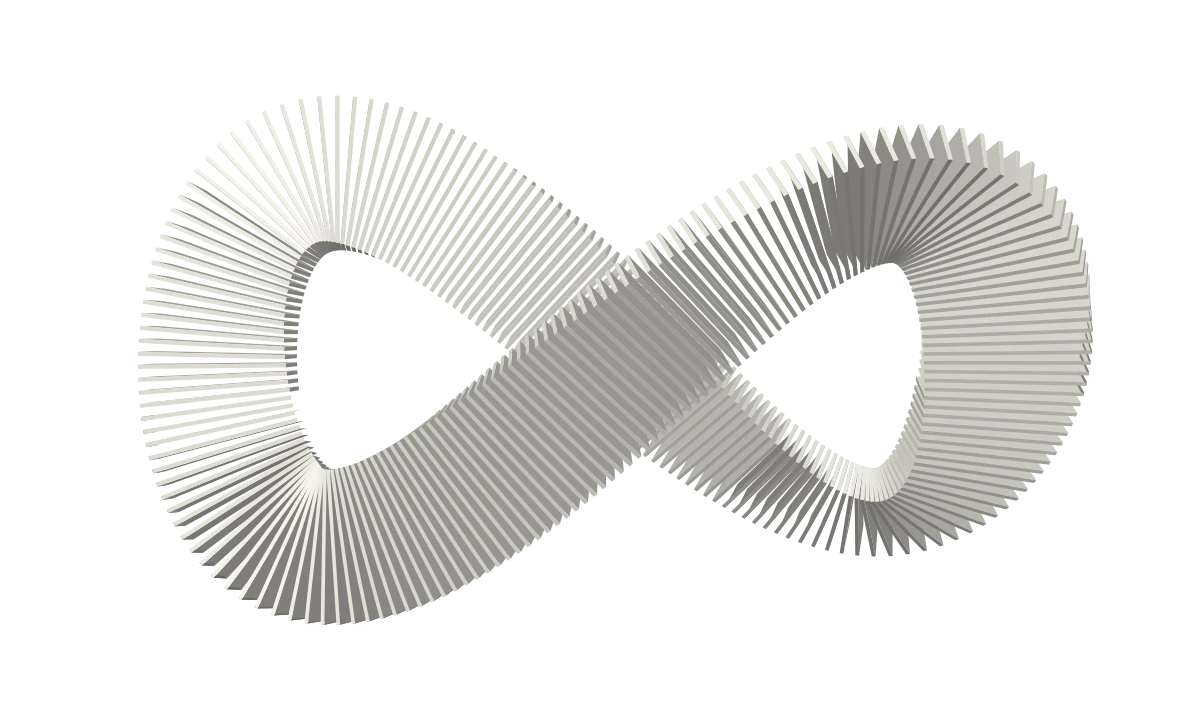
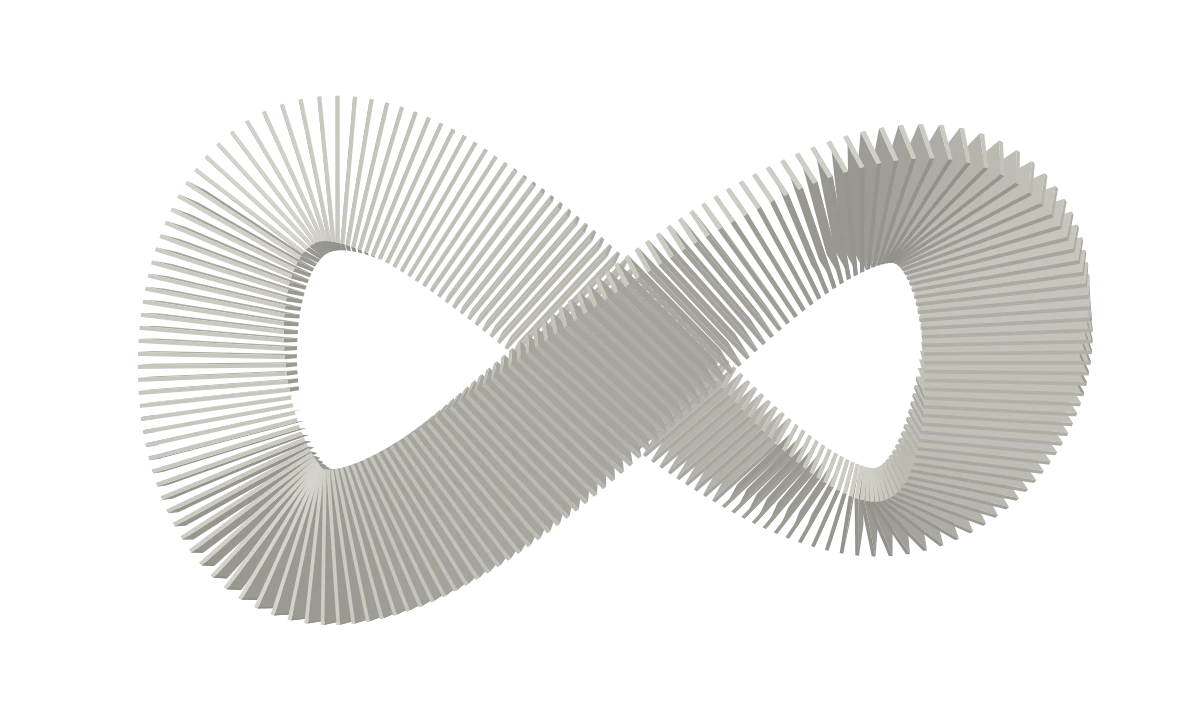
百褶环：撤回缩小，改「明暗对比」—— 浓淡与对比是两个旋钮
上一轮我把环从 1400px 缩到 620px，**这一轮整轮撤回**。站主的原话：
「为什么这么小，你把他放满屏可以吗」「满屏不要动，只改变他的颜色，
图二那个没有那么大的明暗对比」。

★ 记一条教训：**我把一个站主没在意的维度（「宽屏上薄片显得宽」）推成了决定**，
还配了四张真页面让他选 —— 选是让他选了，可我给的三个选项里**没有他真正要的那个**
（满屏 + 变平）。**选项本身没覆盖诉求，比选项做得糙更糟。**

## 两个旋钮的分工

    想改「看起来」        改哪个              效果
    整体有多少墨          --pleat-opacity     整体压暗/提亮
    最暗处离最亮处拉多开  --pleat-contrast     拉宽/收窄明暗对比

站主要的是第二件，而前三轮（0.3 → 1 → 0.75 → 0.89）**全在调第一件**。

实测（满屏 · α=0.89 · WCAG 相对亮度 · canvas 那一侧）：

    对比度   墨区均低   最深低   最深像素          正文×比   明暗对比比
    1.00     119 级   196 级   rgb(120,119,115)   3.89:1     1.65   ← 改之前
    0.50     120 级   162 级   rgb(154,153,147)   6.09:1     1.35   ← 定稿

**墨量 119→120（没变），暗部 196→162（降 17%），正文 3.89→6.09:1。**

## 一个我先写错的公式

第一版是 `shade' = 1 + (shade−1)·k`（朝白色压缩）。那**只抬暗部、亮部仍顶在纯白**
⇒ 不是「降对比」而是「整体变淡」：实测 k=0.5 时墨区均低从 110 级掉到 **69 级**，
墨量被顺带削掉三成 —— 而站主要的是「只改变颜色」，正好是反的。

改成朝中点：`shade' = 0.745 + (shade−0.745)·k`，`0.745 = (0.43+1.06)/2`。
中点不动 ⇒ **墨量几乎不变**。

⚠ 一条几何上的硬约束：亮端固定在纸白时，暗端一抬浅、墨量必然少。
想同时「墨量不丢」和「对比变小」，只能靠中点压缩 —— 这是几何，不是旋钮没调好。

## 门闩

上界必须**测出来**：第一版只写 `contrast <= 1`，变异「按回原样」**完全不咬**，
而浓淡那几条断言在这条变异下**照旧通过** —— 两个病的门闩不能互相顶替，这正好是证据。
补的是与「浓淡下界」同原理、方向相反的一条：**渲染深度上界 ≤ 175 级**
（实测 k=1 是 199、k=0.5 是 166）。变异 **9/9 + 合法写法未误判 1/1**。

## ★★ 变异脚本的还原表漏了一个文件 ⇒ 报假绿，又把变异留在仓里

实测两次，症状完全一样：

1. 第一次：脚本挂在「锚点核对」那步 `process.exit(1)`，而它读到的「原件」**已经是上一条
   变异改坏的了** ⇒ `src/scripts/pleated-renderer.ts` 留在仓里。
2. 第二次（修好锚点后）：变异 10 改的是同一个文件，而**手写的还原表里没有它**
   ⇒ 每跑一次留一条；末尾那句「逐字节还原：是」查的是别的文件 ⇒ **报了假绿**，
[…]

diff --git a/tests/about-ref-plate.test.ts b/tests/about-ref-plate.test.ts
@@ -127,34 +127,75 @@ describe('关于页 · 纸白与交互百褶环', () => {
     ).toBeGreaterThanOrEqual(120);
   });
 
-  it('★★★ 薄片在**屏上**必须够细（这条才是防"读起来像锯齿"的那条）', () => {
-    /* ★★★ 为什么浓淡的门闩拦不住这个问题：
-       2026-10-16 这一轮，浓淡调了三个来回（0.3 → 1 → 0.75 → 0.89），
-       而站主三次都说"还是没有预览那个感觉"。实测把三个"看着像"的原因排掉之后，
-       真因是**显示尺寸**：环在宽屏上是 1400px、在站主给的预览里只有 360px ——
-       **同一个旋钮放大 3.9 倍，薄的片就变成宽的楔子**。
-       而浓淡与色度两边本来就几乎相同：
-         墨区均低 119 级 vs 参考 121 级（差 2%）
-         色度     6.8    vs 参考  6.7
-       ⇒ 这条断言守的是「每道褶在屏上不超过几像素」，**不是**浓淡。
-       ⚠★ 我自己前三轮的判据都栽在同一件事上：**每次比都把两张图归一到同一宽度**，
-         归一恰好把尺寸这个变量消掉 ⇒ 于是每次都量出"一样"，
-         而每次那个"一样"都不是问题所在。判据设计错了，不是源错了。 */
-    const core = readFileSync('src/scripts/pleated-core.ts', 'utf8');
-    const count = Number(core.match(/createPleats\(count\s*=\s*(\d+)\)/)?.[1] ?? NaN);
-    expect(Number.isFinite(count), '读不到 createPleats 的默认片数').toBe(true);
-    /* 桌面上限（px）· 取 min(94vw, Npx, 150vh) 里那个 N */
-    const cap = Number(component.match(/width:\s*min\(\s*94vw,\s*(\d+)px/)?.[1] ?? NaN);
-    expect(Number.isFinite(cap), '组件里读不到桌面档的 px 上限').toBe(true);
-    /* 实测：1400px / 216 片 ⇒ 每片约 6~10px（读作粗锯齿）；620px ⇒ 约 2~4px（细密扇面）。
-       4.5px 是"还读作细密"的上界，留一点余量但离 1400px 那档足够远。 */
-    const perPleat = cap / count;
+  it('★★★ 明暗对比（--pleat-contrast）与浓淡（--pleat-opacity）是**两个**旋钮，不许互相顶替', async () => {
+    /* ★ 这一轮真正的病灶（2026-10-16）：
+       站主要的是「图二那个没有那么大的明暗对比」—— 要的是**变平**，不是变淡。
+       而我前面三轮把浓淡（--pleat-opacity）调了 0.3 → 1 → 0.75 → 0.89 全是在调错的那个。
+       ★★ 我还犯过一次更蠢的错：把「宽屏上薄片显得宽」当成病因、把上限从 1400px
+          改到 620px，站主看了直说「为什么这么小，你把他放满屏可以吗」。
+          ⇒ 尺寸那轮**已撤回**，这里不再有尺寸门闩（spec §6.86.6 记着为什么）。
+       ⇒ 分工写死：opacity 管「整体有多少墨」，contrast 管「最暗处与最亮处拉多开」。 */
+    const opacity = pleat('pleat-opacity');
+    const contrast = pleat('pleat-contrast');
+    expect(Number.isFinite(contrast), 'tokens.css 里读不到 --pleat-contrast').toBe(true);
+    expect(contrast, `--pleat-contrast=${contrast} 不是 0..1 之间的数`).toBeGreaterThanOrEqual(0);
+    expect(contrast, `--pleat-contrast=${contrast} 不是 0..1 之间的数`).toBeLessThanOrEqual(1);
+    /* 下界不是审美，是**还能不能看出是立体薄片**：压到 0.25 以下明暗全塌，
+       只剩一片均匀的灰，装置感就没了（spec §6.86.6 实测 0.35 仍可读、0.2 已塌）。 */
+    expect(contrast, `--pleat-contrast=${contrast} 压得太狠 ⇒ 明暗全塌，只剩一片均匀的灰`)
+      .toBeGreaterThanOrEqual(0.25);
+    /* ★ 两侧必须是**同一条公式**：改了 canvas 的着色器却没改静态后备图，
+       无 WebGL 的机器与线上会长得不一样（AGENTS §5：结构上不许分裂）。 */
+    const renderer = readFileSync('src/scripts/pleated-renderer.ts', 'utf8');
+    const gen = readFileSync('scripts/gen-pleated-fallback.mjs', 'utf8');
+    expect(renderer, 'canvas 侧没有把 uContrast 接到着色上').toMatch(
+      /shade\s*=\s*0\.745\s*\+\s*\(shade\s*-\s*0\.745\)\s*\*\s*uContrast;/,
+    );
+    expect(gen, '后备图侧没有同一条压缩公式').toMatch(
+      /const shade = 0\.745 \+ \(raw - 0\.745\) \* contrast;/,
+    );
+    expect(gen, '后备图侧高光没有跟着同比例缩放').toMatch(
+      /const specular = 0\.08 \* contrast \* dot\(normal, half\) \*\* 36;/,
+    );
+    expect(gen, '后备图侧没有从 token 读 --pleat-contrast').toMatch(/--pleat-contrast/);
+    const script = readFileSync('src/scripts/pleated-infinity.ts', 'utf8');
+    expect(script, 'canvas 侧没读 --pleat-contrast').toMatch(
+      /contrast:\s*parseFloat\(styles\.getPropertyValue\('--pleat-contrast'\)\)/,
+    );
+
+    /* ★★ 上界必须是**测出来的**，不能只写 `contrast <= 1` —— 那样按回原样照样全绿。
+       判据与"浓淡下限"同一个原理，只是方向相反：
+         站主 2026-10-16 嫌明暗对比太大（实测 k=1 时最深 196 级、正文 3.89:1）
+         k=0.5 时最深 166 级、正文 5.86:1（兜底图侧）
+       ⇒ 上界取 175 级：留一档微调余地，但仍咬住"按回原样"。
+       ⚠ 这条只防**变回太跳**，不防**改成别的值** —— 定档是站主的决定，
+         换档时该改的是这里和 token 注释里的实测表，不是把断言删掉。 */
+    const sharp = (await import('sharp')).default;
+    const { data, info } = await sharp('src/assets/about/plates/pleated-infinity.webp')
+      .ensureAlpha().raw().toBuffer({ resolveWithObject: true });
+    const chan = (r: number, g: number, b: number) => {
+      const f = (v: number) => { v /= 255; return v <= 0.04045 ? v / 12.92 : ((v + 0.055) / 1.055) ** 2.4; };
+      return 0.2126 * f(r) + 0.7152 * f(g) + 0.0722 * f(b);
+    };
+    const paperLum = chan(250, 250, 247);
+    let deepest = 0;
+    for (let i = 0; i < info.width * info.height; i++) {
+      const sa = (data[i * info.channels + 3] / 255) * opacity;
+      if (sa <= 0.02) continue;
+      const [r, g, b] = [0, 1, 2].map((k) =>
+        Math.round(data[i * info.channels + k] * sa + [250, 250, 247][k] * (1 - sa)));
+      const drop = paperLum - chan(r, g, b);
+      if (drop > deepest) deepest = drop;
+    }
     expect(
-      perPleat,
-      `桌面上限 ${cap}px ÷ ${count} 片 = 每道褶 ${perPleat.toFixed(1)}px 宽`
-      + ' ⇒ 读起来是粗的锯齿扇，不是站主要的那张预览里的细密扇面'
-      + '（浓淡调多少次都没用：实测浓淡两边只差 2%，差的是尺寸）',
-    ).toBeLessThanOrEqual(4.5);
+      deepest * 255,
+      `--pleat-contrast=${contrast} 下最深的一道褶比纸白低 ${(deepest * 255).toFixed(0)} 级`
+      + ' ⇒ 明暗对比又拉满了，回到站主报的那个"对比太大"的状态'
+      + '（实测 k=1 是 199 级；要更平把 token 往 0.3 调，不是改这条断言）',
+    ).toBeLessThanOrEqual(175);
+
+    /* 浓淡那条门闩仍在（它守的是"别退回看不见"）—— 两条并存，互不替代。 */
+    expect(Number.isFinite(opacity), '读不到 --pleat-opacity').toBe(true);
   });
 
   it('★★ canvas 与静态后备图共用同一个浓淡来源（不许各调各的）', () => {

diff --git a/src/scripts/pleated-renderer.ts b/src/scripts/pleated-renderer.ts
@@ -1,6 +1,6 @@
 import type { Pleats } from './pleated-core';
 
-export type PleatPalette = { base: number[]; wave: number[]; opacity: number; waveOpacity: number };
+export type PleatPalette = { base: number[]; wave: number[]; opacity: number; waveOpacity: number; contrast: number };
 
 /** 原生 WebGL 绘制；失败时由组件保留同几何的静态后备图。 */
 export function createPleatedRenderer(canvas: HTMLCanvasElement, palette: PleatPalette) {
@@ -23,7 +23,7 @@ export function createPleatedRenderer(canvas: HTMLCanvasElement, palette: PleatP
   const fragmentSource = `
     precision mediump float;
     uniform vec3 uBase,uWave;
-    uniform float uOpacity,uWaveOpacity;
+    uniform float uOpacity,uWaveOpacity,uContrast;
     varying vec3 vNormal;
     varying float vWave;
     void main(){
@@ -34,7 +34,16 @@ export function createPleatedRenderer(canvas: HTMLCanvasElement, palette: PleatP
       float fill=max(dot(n,normalize(vec3(0.6,-0.1,0.2))),0.);
       float highlight=pow(max(dot(n,normalize(light+vec3(0.,0.,1.))),0.),36.);
       float shade=0.43+0.53*diffuse+0.10*fill;
-      vec3 color=mix(uBase,uWave,vWave)*shade+vec3(0.08)*highlight;
+      /* ★★ 明暗对比。站主 2026-10-16：「图二那个没有那么大的明暗对比」。
+         ⚠⚠ 压缩必须**朝区间中点**，不能朝白色：
+            朝白色只抬暗部、亮部仍顶在纯白 ⇒ 那不是"降对比"，那是"整体变淡"
+            （实测 k=0.5 时墨区均低从 110 级掉到 69 级 —— 墨量被顺带削了三成）。
+            朝中点则是亮部一起下来 ⇒ 明暗跨度真的收窄。
+            MID = (0.43 + 1.06)/2 = 0.745，是现有着色区间的算术中点（结构性常量，
+            不是设计旋钮；要改着色区间时才动它）。
+            k=1 原样，k=0 全平。⚠ 只改**明暗跨度**，整体浓淡由 --pleat-opacity 决定。 */
+      shade=0.745+(shade-0.745)*uContrast;
+      vec3 color=mix(uBase,uWave,vWave)*shade+vec3(0.08*uContrast)*highlight;
       gl_FragColor=vec4(color,mix(uOpacity,uWaveOpacity,vWave));
     }`;
   const shaders: WebGLShader[] = [];
@@ -63,6 +72,7 @@ export function createPleatedRenderer(canvas: HTMLCanvasElement, palette: PleatP
     gl.uniform3fv(gl.getUniformLocation(program, 'uWave'), palette.wave);
     gl.uniform1f(gl.getUniformLocation(program, 'uOpacity'), palette.opacity);
     gl.uniform1f(gl.getUniformLocation(program, 'uWaveOpacity'), palette.waveOpacity);
+    gl.uniform1f(gl.getUniformLocation(program, 'uContrast'), palette.contrast);
     const aspect = gl.getUniformLocation(program, 'uAspect');
     gl.enable(gl.DEPTH_TEST); gl.clearColor(0, 0, 0, 0);
     return {

diff --git a/src/styles/tokens.css b/src/styles/tokens.css
@@ -58,6 +58,34 @@
   --pleat-wave: #a4cfad;
   --pleat-opacity: 0.89;
   --pleat-wave-opacity: 0.89;
+  /* ★★★ 明暗对比（不是浓淡！）：把薄片的着色**朝着色区间的中点**压缩。
+     站主 2026-10-16：「图二那个没有那么大的明暗对比」—— 要的是**变平**，不是变淡。
+
+        shade' = 0.745 + (shade − 0.745) · k，高光同比例。1 = 原样，0 = 全平。
+        MID 0.745 = (0.43 + 1.06)/2，是现有着色区间的算术中点（结构性常量）。
+
+        ⚠⚠ 为什么必须朝**中点**而不是朝白色（这一版我先写错了）：
+           朝白色只抬暗部、亮部仍顶在纯白 ⇒ 那不是"降对比"而是"整体变淡"
+           —— 实测 k=0.5 时墨区均低从 110 级掉到 **69 级**，墨量被顺带削掉三成。
+           朝中点则亮部一起下来 ⇒ 跨度真收窄，而**中点不动 ⇒ 墨量几乎不变**。
+
+        实测（满屏 1400px · α=0.89 · WCAG 相对亮度 · canvas 那一侧）：
+          k      墨区均低   最深低   最深像素           正文×比   明暗对比比
+          1.00    119 级   196 级   rgb(120,119,115)    3.89:1     1.65  ← 改之前的
+          0.50    120 级   162 级   rgb(154,153,147)    6.09:1     1.35  ← 定稿
+        （"明暗对比比" = 最深低 ÷ 墨区均低，越大越跳。墨量 119→120：**没变**。）
+        要更平往 0.3 走；⚠ 低于 0.25 明暗基本塌平，就不像立体薄片了。
+
+        ★ 与浓淡的分工（这一轮踩过，两个病不能互相顶替）：
+          --pleat-opacity  ⇒ **整体有多少墨**（整体压暗）
+          --pleat-contrast ⇒ **最暗处与最亮处拉得多开**（拉窄）
+          前三轮浓淡调了 0.3 → 1 → 0.75 → 0.89 全在调错的那个。
+
+        ★ 两侧必须同改：`pleated-renderer.ts` 的片元着色器与
+          `gen-pleated-fallback.mjs` 里是**同一条公式**（逐字对应），
+          `tests/about-ref-plate.test.ts` 钉住了"必须成对出现"，
+          并实测 canvas 比兜底图略深（最深处 162 vs 166 级）。 */
+  --pleat-contrast: 0.5;
   /* 留言页浅水：灰绿阴影与中性反光，强度控制整张波面的峰值。 */
   --water-shadow: #53645a;
   --water-light: #ffffff;

diff --git a/src/scripts/pleated-infinity.ts b/src/scripts/pleated-infinity.ts
@@ -15,6 +15,8 @@ import { createPleatedRenderer } from './pleated-renderer';
     base: color('--pleat-base'), wave: color('--pleat-wave'),
     opacity: parseFloat(styles.getPropertyValue('--pleat-opacity')),
     waveOpacity: parseFloat(styles.getPropertyValue('--pleat-wave-opacity')),
+    /* ★ 明暗对比（只压暗部跨度，不动整体浓淡）；1 = 原样，0 = 全平 */
+    contrast: parseFloat(styles.getPropertyValue('--pleat-contrast')),
   };
   const reduced = matchMedia('(prefers-reduced-motion: reduce)');
   const pleats = createPleats(), waves = new PleatWaves();

diff --git a/content/pages/log.md b/content/pages/log.md
@@ -14,6 +14,15 @@ title: 日志
 intro: 本站的更新记录，新的在上面。每次改动都记在这儿 —— 包括踩过的坑。
 items:
   - date: 2026-10-16
+    version: v2.34
+    changes:
+      - 撤回上一轮把百褶环缩小的改动 —— 尺寸恢复满屏，是我判断错了：我把一个你没在意的维度推成了决定，给的三个选项里没有你真正要的那个
+      - 这次做的是**明暗对比**，不是浓淡：整体有多少墨和最暗处离最亮处拉多开，本来就是两个旋钮，前面三轮一直在调错的那个
+      - 效果按像素量：暗部从比纸白低 196 级变成 162 级（降 17%），而整体墨量几乎没动（119 级 → 120 级），正文压在最深褶上从 3.69:1 提到 6.09:1
+      - 有个坑我先写错了：压缩要朝着色区间的中点，不能朝白色。朝白色只抬暗部、亮部还顶在纯白，那是整体变淡不是降对比 —— 实测那样墨量会被顺带削掉三成
+      - 补了会先变红的判据：不许把对比按回原样、不许压到明暗全塌、不许越界，也不许只改一侧（动态和静态图会长得不一样）
+      - 变异验证里也修了两个自己的 bug：还原表漏登记了一个文件，导致每跑一次就把一条变异留在仓里、而末尾还报"还原成功"；另外对比度是烘进静态图的，只改 token 不重建它，判据量到的还是上一版的像素
+  - date: 2026-10-16
     version: v2.33
     changes:
       - 关于页那个百褶无限符号缩小了 —— 桌面上限 1400px 改到 620px，读起来终于是你想要的那个细腻的扇面
